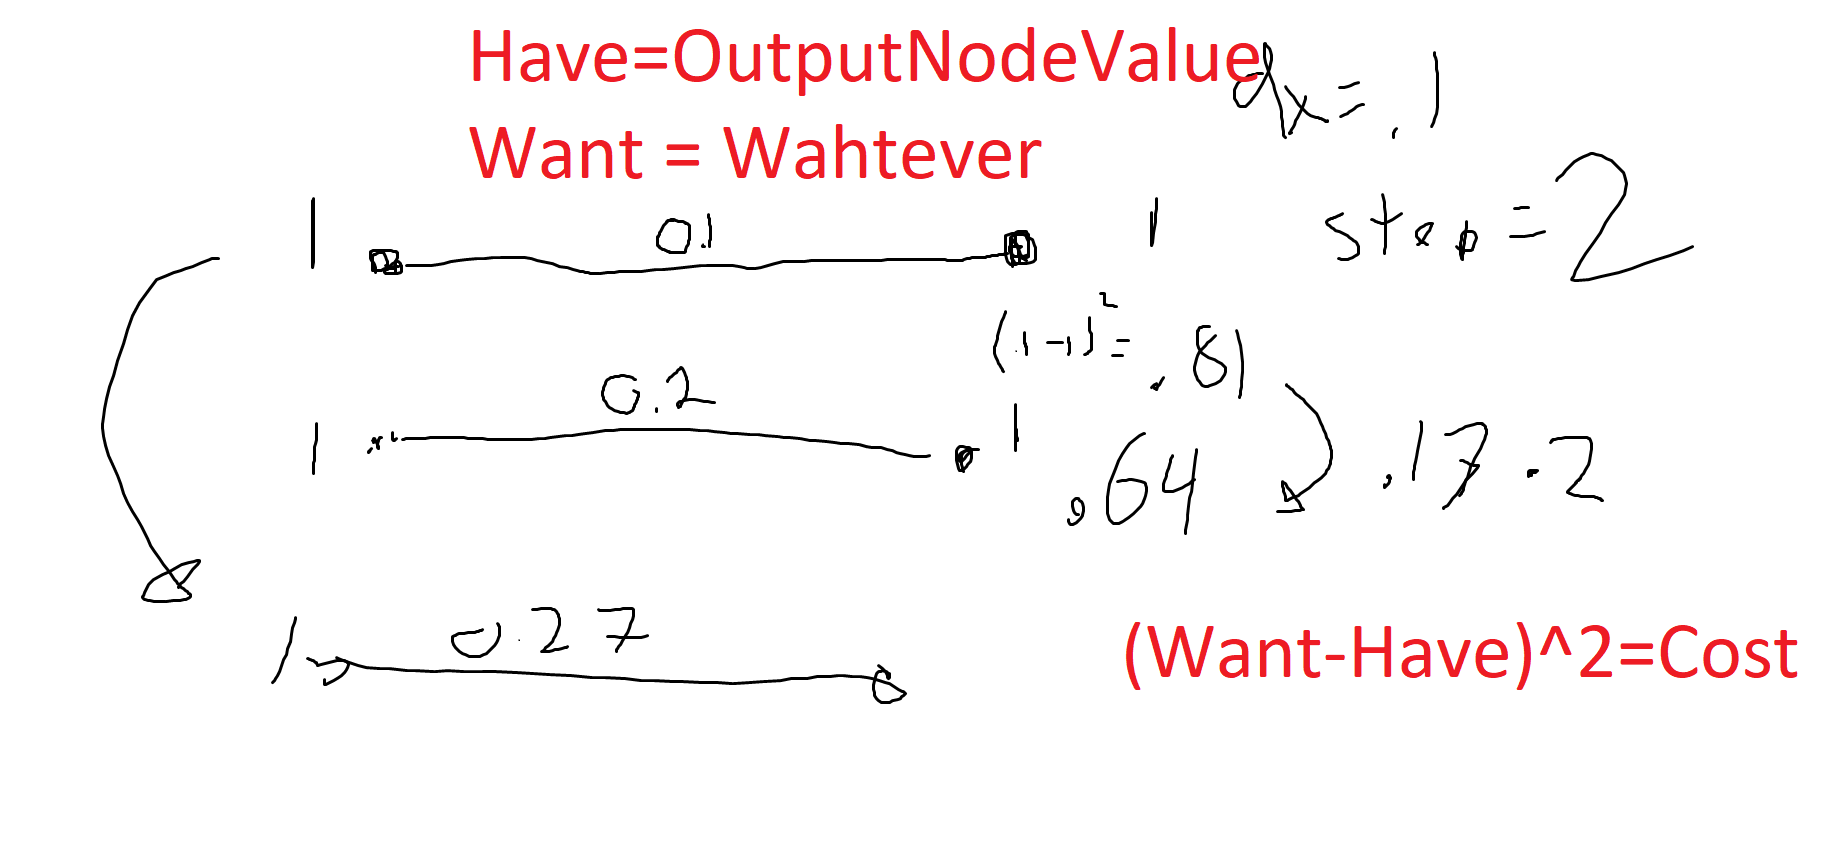
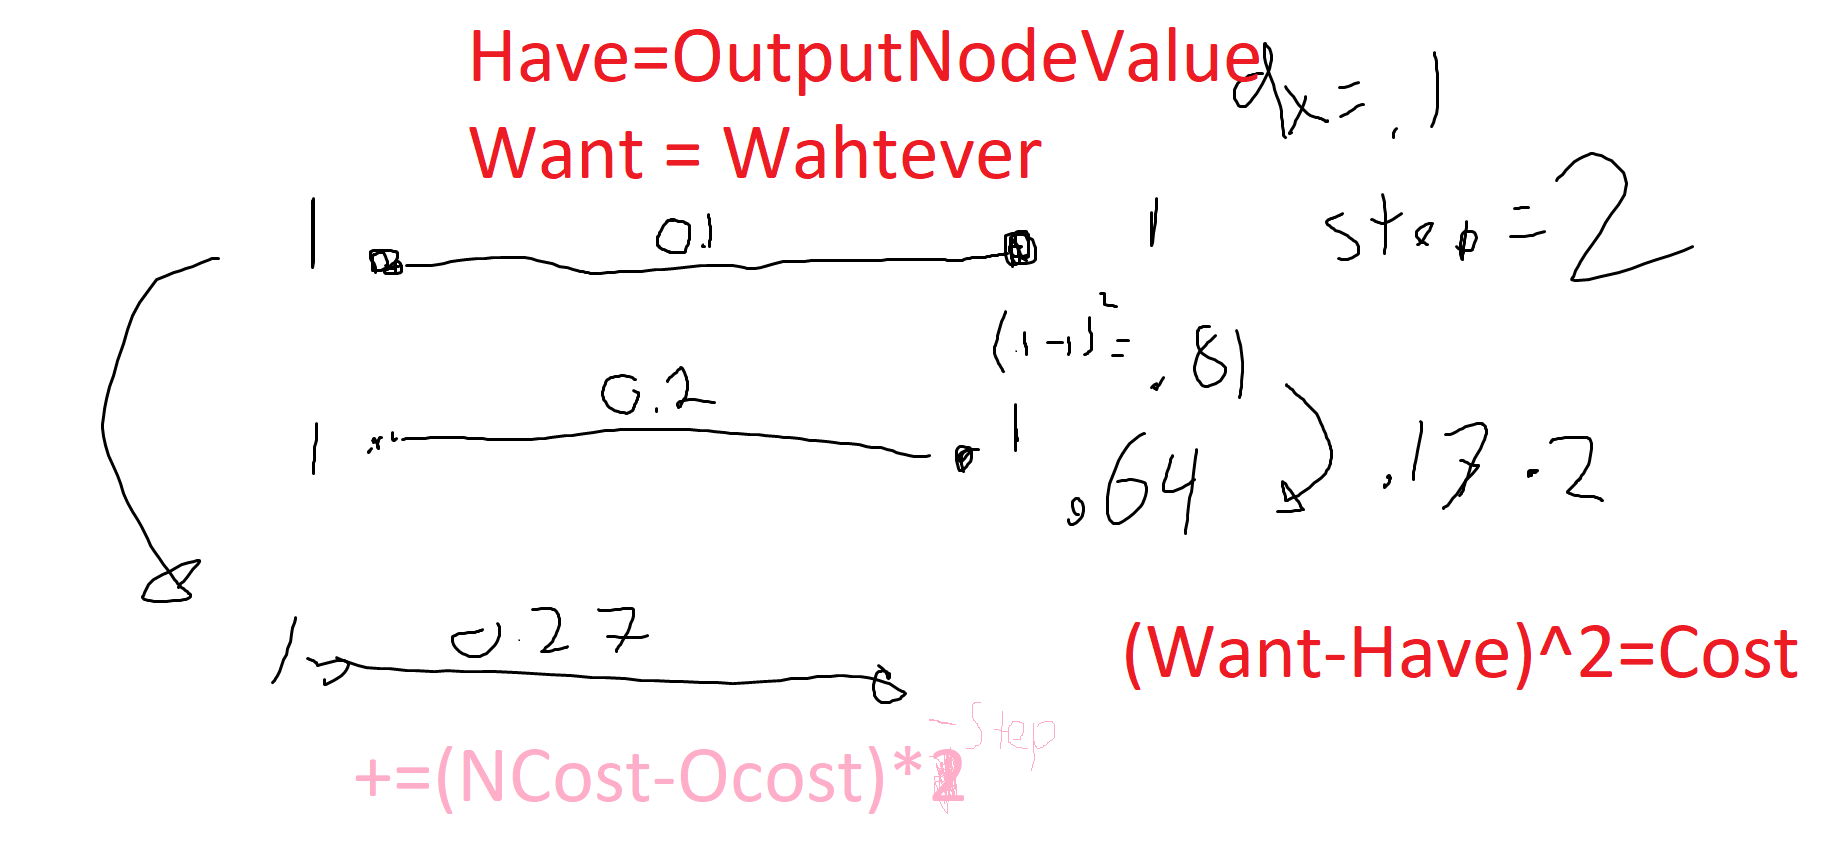
Jason helps
asdf

Changed region(s): [[0.187, 0.8871, 0.5298, 0.9482]]

diff --git a/ElijahStuff/AI/Sep/src/randomcontest/LayerTestSep.java b/ElijahStuff/AI/Sep/src/randomcontest/LayerTestSep.java
@@ -1,0 +1,77 @@
+package randomcontest;
+
+import java.util.ArrayList;
+import java.util.Random;
+
+public class LayerTestSep {
+
+	public static void main(String[] args) {
+		var dx = .1f;
+		var step = -2;
+		var in = new Inode[3];
+		var rand = new Random();
+		var opm = rand.nextInt(3);
+		//1 opponent did rock
+		//2 opponent did paper
+		//3 opponent did scissors
+		if(opm==0) {
+			in[0] = new Inode(0,1);
+			in[1] = new Inode(1,0);
+			in[2] = new Inode(2,0);
+		}else if(opm==1) {
+			in[0] = new Inode(0,0);
+			in[1] = new Inode(1,1);
+			in[2] = new Inode(2,0);
+		}else {
+			in[0] = new Inode(0,0);
+			in[1] = new Inode(1,0);
+			in[2] = new Inode(2,1);
+		}
+		var nl = new NetLayer(in, 3);
+		nl.runLayer();
+		var costs = new float[nl.getOnodes().length];
+		for(int i=0;i<nl.getOnodes().length;i++) {
+			int wval = 1;
+			var tcost = cost(wval,nl.getOnodes()[i]);
+			//System.out.println(nl.getOnodes()[i]);
+			costs[i] = tcost;
+		}
+		var bi = 0; //Best Index
+		for(int i=0;i<costs.length;i++) {
+			if((1-costs[i])>(1-costs[bi])) {
+				bi = i;
+			}
+		}
+		//1 opponent did rock
+		//2 opponent did paper
+		//3 opponent did scissors
+		System.out.println("SAW  1-R | 2-P | 3-S: "+opm);
+		System.out.println("CHOSE:"+bi);
+		System.out.println("WANTED: S1-2 | S2-3 | S3-1");
+		
+		var sumcost =0.0f;
+		for(int i=0;i<costs.length;i++) {
+			sumcost+=costs[i];
+		}
+		
+		for(int i=0;i<nl.getConnections().length;i++) {
+
+			var ncost = 
+			
+			
+		}
+		
+
+	}
+	
+	
+	
+	public static float cost(float wval,Onode oval) {
+		var ret = 0.0f;
+		var ov = oval.getValue();
+		ret = (float) Math.pow((wval-ov),2);
+		return ret;
+	}
+	
+
+}

diff --git a/ElijahStuff/AI/Sep/src/randomcontest/RandomnumberTest.java b/ElijahStuff/AI/Sep/src/randomcontest/RandomnumberTest.java
@@ -15,11 +15,7 @@ public class RandomnumberTest {
 	 * @param args
 	 */
 	public static void main(String[] args) {
-		Random rand = new Random();
-		while(true) {
-			System.out.println(rand.nextInt(4)<4);
-			
-		}
+
 		
 
 	}
